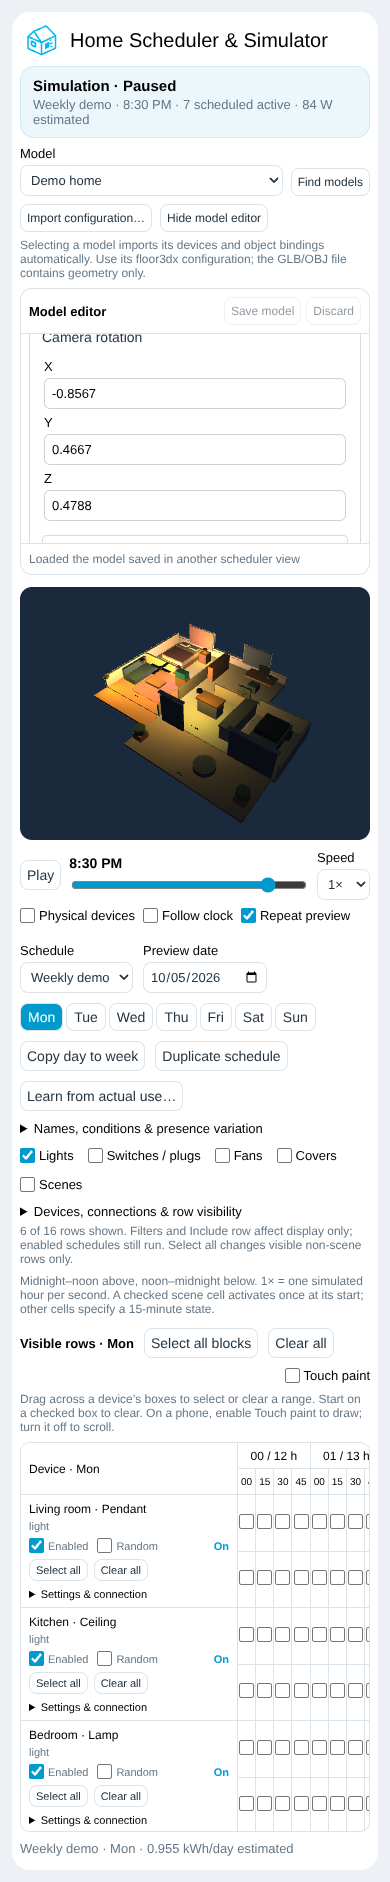
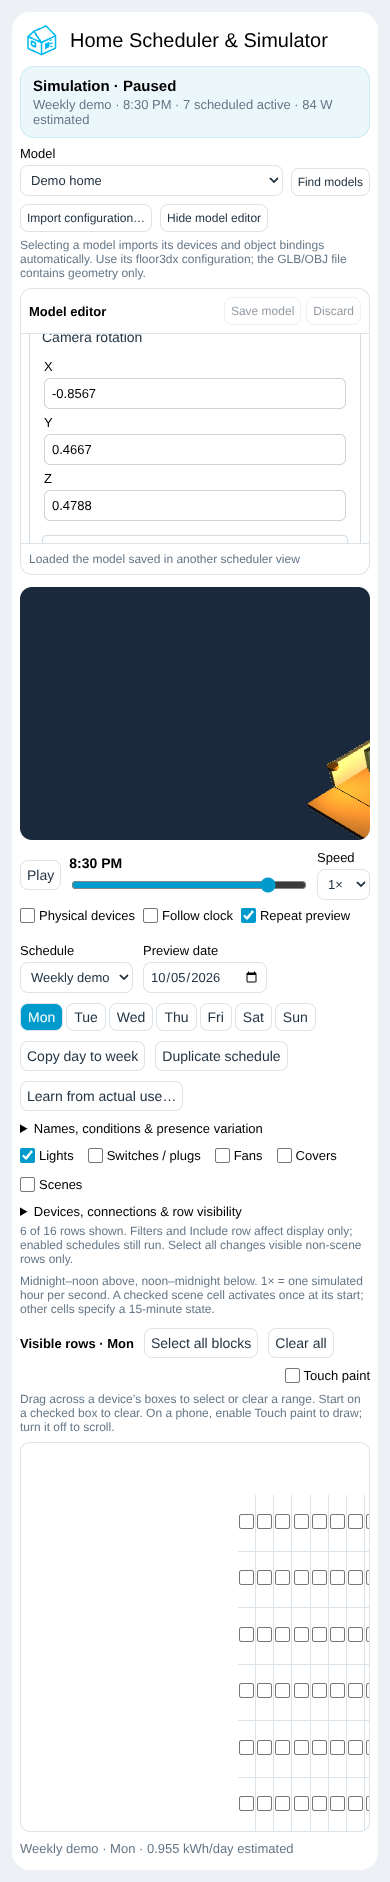
0.4.2: the preview clock drives any model's daylight; Rooms Card models found and imported
An imported house usually leaves floor3dx-card's daylight on its default
sun.sun, so inside the scheduler it followed the real sun and its lighting
stood still while the day played. The embedded card now gets the simulated
hour as daylight.time_entity unless the configuration names one, and a
fixed daylight.time is dropped.

Find models lists each model of a floor3dx Rooms Card (2.5+), on its own
or inside a wrapper card; the importer accepts its untyped card: /
models[].card blocks, with model choosing one of several.

Browser test: a wrapped two-model Rooms Card in the stub dashboard, its
untyped block imported, the injected time entity, and a darker scene at
the simulated 23:00 than at noon. Run against floor3dx-card 2.6.1.

Claude-Session: https://claude.ai/code/session_01EvyL4ym57kBLX2KkUET3MF

diff --git a/custom_components/home_scheduler/frontend/home-scheduler-card.js b/custom_components/home_scheduler/frontend/home-scheduler-card.js
@@ -1,4 +1,4 @@
-/* Home Scheduler & Simulator 0.4.1 — vanilla custom card, no build step. */
+/* Home Scheduler & Simulator 0.4.2 — vanilla custom card, no build step. */
 const HS_ESCAPE = value => String(value ?? "").replace(/[&<>"']/g, ch =>
   ({"&":"&amp;","<":"&lt;",">":"&gt;",'"':"&quot;","'":"&#39;"}[ch]));
 const HS_BIT = (mask, slot) => !!(parseInt(mask[slot >> 2] || "0",16) & (8 >> (slot % 4)));
@@ -22,7 +22,7 @@ class HomeSchedulerCard extends HTMLElement {
     this.disposed = false;
     this.renderJob = 0;
     this.sourceJob = 0;
-    this.modelChoices = [{id:"demo",name:"Demo home",kind:"demo",url:"/home_scheduler/demo-home.json?v=0.4.1"}];
+    this.modelChoices = [{id:"demo",name:"Demo home",kind:"demo",url:"/home_scheduler/demo-home.json?v=0.4.2"}];
   }
 
   setConfig(config) {
@@ -764,7 +764,7 @@ class HomeSchedulerCard extends HTMLElement {
     try {
       let source=this.plan.renderer||this.config.renderer;
       if(!source) {
-        const response=await fetch(this.config.renderer_url||"/home_scheduler/demo-home.json?v=0.4.1");
+        const response=await fetch(this.config.renderer_url||"/home_scheduler/demo-home.json?v=0.4.2");
         if(!response.ok) throw new Error("House configuration unavailable ("+response.status+"). Check the installed JSON file.");
         source=await response.json();
       }
@@ -822,7 +822,7 @@ class HomeSchedulerCard extends HTMLElement {
     });
     const query=message=>this._hass.callWS?this._hass.callWS(message):this._hass.connection?.sendMessagePromise(message);
     const reads=await Promise.allSettled([
-      bounded(Promise.all(["/home_scheduler/models.json?v=0.4.1",this.plan.model_presets_url].filter(Boolean).map(url=>
+      bounded(Promise.all(["/home_scheduler/models.json?v=0.4.2",this.plan.model_presets_url].filter(Boolean).map(url=>
         fetch(url,{cache:"no-store"}).then(async response=>response.ok?response.json():null))).then(indices=>({models:indices.flatMap(x=>Array.isArray(x?.models)?x.models:[])}))),
       bounded(Promise.resolve().then(()=>query({type:"lovelace/dashboards/list"})))
     ]);
@@ -847,6 +847,14 @@ class HomeSchedulerCard extends HTMLElement {
         if(!value||typeof value!=="object") return;
         if(["custom:floor3dx-card","custom:floor3d-card"].includes(value.type)) {
           add({id:"dashboard-"+(url_path||"overview")+"-"+(count++),name:(value.name||value.objfile||"House")+" · "+title,source:value,kind:"dashboard"});return;
+        }
+        // a floor3dx Rooms Card (2.5+) carries the 3D card as `card:` or, with several models, as
+        // `models[].card`, usually without a `type`; each model is offered on its own
+        if(value.type==="custom:floor3dx-rooms-card") {
+          const models=Array.isArray(value.models)&&value.models.length?value.models:(value.card&&typeof value.card==="object"?[{card:value.card}]:[]);
+          for(const m of models) if(m&&m.card&&typeof m.card==="object"&&["custom:floor3dx-card","custom:floor3d-card"].includes(m.card.type||"custom:floor3dx-card"))
+            add({id:"dashboard-"+(url_path||"overview")+"-"+(count++),name:(m.name||m.card.name||m.card.objfile||"House")+" · "+title,source:{type:"custom:floor3dx-card",...m.card},kind:"dashboard"});
+          return;
         }
         for(const child of Object.values(value)) visit(child);
       };
@@ -931,6 +939,12 @@ class HomeSchedulerCard extends HTMLElement {
     // every object separate. The other 2.x options (lights, color_management, exposure, look,
     // transparent, hide_objects, rotate.ramp, ...) pass through as the configuration has them.
     config.merge_static="no";
+    // The preview clock drives the model's daylight: an imported house usually follows the real
+    // sun.sun (or a fixed `time`), which would leave its lighting still while the day plays.
+    if(config.daylight&&typeof config.daylight==="object") {
+      config.daylight={...config.daylight,time_entity:config.daylight.time_entity||"input_number.hs_demo_hour"};
+      delete config.daylight.time;
+    }
     const renderer=await this.helpers.createCardElement(config);
     if(this.disposed || !this.showModel || job !== this.renderJob) return;
     renderer.preview=this.editorVisible;

diff --git a/custom_components/home_scheduler/model_import.py b/custom_components/home_scheduler/model_import.py
@@ -23,7 +23,7 @@ def validate_model(config):
     return json.loads(encoded)
 
 
-def parse_source(source):
+def parse_source(source, model=None):
     if isinstance(source, str):
         if len(source.encode()) > 524288:
             raise ValueError("Import configuration exceeds 512 KiB")
@@ -51,21 +51,48 @@ def parse_source(source):
         raise ValueError("Choose a model configuration, not the GLB/OBJ geometry file")
     metadata = source if isinstance(source, dict) and "renderer" in source else {}
     root = metadata.get("renderer", source)
-    found = []
-    def visit(value):
-        if isinstance(value, dict):
-            if value.get("type") in ("custom:floor3dx-card", "custom:floor3d-card"):
-                found.append(value)
-                return
-            for child in value.values():
-                visit(child)
-        elif isinstance(value, list):
-            for child in value:
-                visit(child)
-    visit(root)
+    found = find_models(root)
+    if model is not None:
+        found = [m for m in found if m.get("model") == model]
     if len(found) != 1:
+        if len(found) > 1 and all(m.get("model") for m in found):
+            raise ValueError("This Rooms Card holds several models (" + ", ".join(m["model"] for m in found) + "); choose one with Find models, or import that model's card: block alone")
         raise ValueError("Import one floor3dx card configuration; use the model selector for cards in a dashboard")
-    return validate_model(found[0]), metadata
+    return validate_model(found[0]["config"]), metadata
+
+
+ROOMS_CARD = "custom:floor3dx-rooms-card"
+
+
+def find_models(value, found=None):
+    """Every floor3dx card configuration in a dashboard, card or wrapper, as {config, model, name}.
+
+    The 3D card itself, and the `card:` or `models[].card` blocks of a floor3dx Rooms Card (2.5+), whose
+    blocks usually carry no `type`: one is added. A wrapper such as `custom:dashboard-entity-reference`
+    is walked through like any other card."""
+    if found is None:
+        found = []
+    if isinstance(value, dict):
+        if value.get("type") in ("custom:floor3dx-card", "custom:floor3d-card"):
+            found.append({"config": value, "model": None, "name": value.get("name")})
+            return found
+        if value.get("type") == ROOMS_CARD:
+            models = value.get("models") if isinstance(value.get("models"), list) else []
+            blocks = [(m.get("id") or m.get("name") or str(i + 1), m.get("name"), m.get("card")) for i, m in enumerate(models) if isinstance(m, dict)]
+            if not blocks and isinstance(value.get("card"), dict):
+                blocks = [(None, value.get("title"), value["card"])]
+            for model_id, name, card in blocks:
+                if isinstance(card, dict) and card.get("type", "custom:floor3dx-card") in ("custom:floor3dx-card", "custom:floor3d-card"):
+                    config = dict(card)
+                    config.setdefault("type", "custom:floor3dx-card")
+                    found.append({"config": config, "model": model_id, "name": name or config.get("name")})
+            return found
+        for child in value.values():
+            find_models(child, found)
+    elif isinstance(value, list):
+        for child in value:
+            find_models(child, found)
+    return found
 
 
 def import_bindings(config, metadata, remembered, states):

diff --git a/tests/test_model_import.py b/tests/test_model_import.py
@@ -1,6 +1,7 @@
 """Automatic imports exercise real bindings, schedules, rollback and isolation."""
 import copy
 import json
+import sys
 import types
 import unittest
 from pathlib import Path
@@ -168,6 +169,23 @@ devices:
         self.assertEqual(self.s.data["renderer"]["header"],"no")
         self.assertEqual(self.s.data["renderer"]["entities"][0]["light"]["follow_entity"],"yes")
         self.assertFalse(self.s.profile()["rows"][self.s.devices[0]["entity"]]["use"])
+
+    async def test_rooms_card_models_import_by_id_and_untyped_blocks_get_a_type(self):
+        house=model(); del house["type"]
+        garage=model(); del garage["type"]; garage["name"]="Garage"; garage["objfile"]="garage.glb"
+        wrapped={"type":"custom:dashboard-entity-reference","dashboard":"lovelace","card":{
+            "type":"custom:floor3dx-rooms-card","rooms":[],"models":[
+                {"id":"house","name":"House","width":62,"card":house},{"id":"garage","name":"Garage","width":38,"card":garage}]}}
+        found=sys.modules["home_scheduler_test_target.model_import"].find_models(wrapped)
+        self.assertEqual([(m["model"],m["name"],m["config"]["type"]) for m in found],[("house","House","custom:floor3dx-card"),("garage","Garage","custom:floor3dx-card")])
+        with self.assertRaisesRegex(Exception,"several models"):
+            await self.command(op="import_model",source=wrapped)
+        await self.command(op="import_model",source=wrapped,model="garage")
+        self.assertEqual(self.s.data["renderer"]["objfile"],"garage.glb")
+        self.assertEqual(self.s.data["renderer"]["type"],"custom:floor3dx-card")
+        single={"type":"custom:floor3dx-rooms-card","rooms":[],"card":house}
+        await self.command(op="import_model",source=single)
+        self.assertEqual(self.s.data["renderer"]["objfile"],"house.glb")
 
     async def test_invalid_imports_roll_back_model_rows_and_physical_state(self):
         variants=["house.glb","x: !secret model",{"renderer":model(),"aliases":{"switch.wall":"switch.wall_alias","switch.wall_alias":"switch.wall"}},

diff --git a/custom_components/home_scheduler/__init__.py b/custom_components/home_scheduler/__init__.py
@@ -476,7 +476,7 @@ class Scheduler:
             if type(expected) is not int or expected != revision:
                 raise HomeAssistantError("Model changed in another card. Discard the draft and edit the current model.")
             if op == "import_model":
-                config, metadata = parse_source(data.get("source",data.get("config")))
+                config, metadata = parse_source(data.get("source",data.get("config")), data.get("model"))
                 if data.get("demo"):
                     if config["path"] not in (ASSET_PATH,"/local/home-scheduler/") or config["objfile"]!="demo-home.glb":
                         raise ValueError("Use the supplied demo configuration")

diff --git a/tests/test_integration.py b/tests/test_integration.py
@@ -46,7 +46,7 @@ class IntegrationTests(unittest.IsolatedAsyncioTestCase):
             self.assertEqual(hass.flows,[])
             self.assertTrue(await target.async_setup_entry(hass,entry))
             scheduler=hass.data[target.DOMAIN]["scheduler"]
-            self.assertIn("/home_scheduler/home-scheduler-card.js?v=0.4.1",hass.modules)
+            self.assertIn("/home_scheduler/home-scheduler-card.js?v=0.4.2",hass.modules)
             self.assertEqual(hass.paths[0].url_path,"/home_scheduler")
             self.assertTrue((Path(hass.paths[0].path)/"demo-home.glb").is_file())
             self.assertIn((target.DOMAIN,"command"),hass.services.registered)

diff --git a/tools/build_demo.py b/tools/build_demo.py
@@ -15,7 +15,7 @@ ROOT = Path(__file__).resolve().parents[1]
 OUT = ROOT / "custom_components/home_scheduler/frontend"
 OUT.mkdir(parents=True, exist_ok=True)
 binary = bytearray()
-gltf = {"asset": {"version": "2.0", "generator": "FortranFour Home Scheduler fictional demo 0.4.1"},
+gltf = {"asset": {"version": "2.0", "generator": "FortranFour Home Scheduler fictional demo 0.4.2"},
         "scene": 0, "scenes": [{"nodes": []}], "nodes": [], "meshes": [], "materials": [],
         "buffers": [], "bufferViews": [], "accessors": [], "textures": [], "images": [],
         "samplers": [{"magFilter": 9729, "minFilter": 9729, "wrapS": 33071, "wrapT": 33071}],

diff --git a/custom_components/home_scheduler/const.py b/custom_components/home_scheduler/const.py
@@ -1,5 +1,5 @@
 """Shared names and bundled asset URL."""
 DOMAIN = "home_scheduler"
 NAME = "Home Scheduler & Simulator"
-VERSION = "0.4.1"
+VERSION = "0.4.2"
 ASSET_PATH = "/home_scheduler/"

diff --git a/README.md b/README.md
@@ -2,9 +2,9 @@
 
 Plan lights, switches and plugs, fans, blinds, curtains, other covers, and scene activations in a weekly quarter-hour grid. Play a day in an original fictional 3D home, select your own configured house model, or watch the simulated device indicators without 3D. Connect real devices when you want the same schedules to operate your home.
 
-Version **0.4.1** · Home Assistant custom integration · MIT license
+Version **0.4.2** · Home Assistant custom integration · MIT license
 
-New in 0.4.1: works with **floor3dx-card 2.x** (three.js r186); see [floor3dx-card 2.x](#floor3dx-card-2x). 0.4.0 added **Learn from actual use**, which observes linked lights, switches/plugs and fans, proposes a weekly routine from matching weekdays, and lets you review and play it in the model before saving a new schedule.
+New in 0.4.2: the preview clock drives the daylight of any imported model, and a floor3dx **Rooms Card** (2.5+) offers each of its models; see [floor3dx-card 2.x](#floor3dx-card-2x). 0.4.0 added **Learn from actual use**, which observes linked lights, switches/plugs and fans, proposes a weekly routine from matching weekdays, and lets you review and play it in the model before saving a new schedule.
 
 ![Fictional demo home at night](previews/demo-night.png)
 
@@ -379,6 +379,8 @@ What this means for a model configuration:
 
 - By default floor3dx-card 2.x draws the 1.x picture (its `lights` and `color_management` options default to `legacy`), so an imported house looks as before. Those options, `exposure`, the `look` themes, `transparent`, `hide_objects` and `rotate.ramp` pass through the import unchanged and take effect in the scheduler's model.
 - `merge_static` is turned off inside the scheduler whatever the configuration says: it merges the objects nothing binds, and the visual model editor's object picker needs every object separate.
+- The preview clock drives the model's `daylight`: inside the scheduler its `time_entity` is the simulated hour (an imported house usually follows the real `sun.sun`, which would leave its lighting still while the day plays), and a fixed `time` is dropped. A model without a `daylight` block keeps its plain lighting; add one (`daylight: {ambient: {day: 0.7, night: 0.16}}` is enough) for day and night.
+- A floor3dx **Rooms Card** (2.5 and later, `custom:floor3dx-rooms-card`), on its own or inside a wrapper such as `custom:dashboard-entity-reference`, is found by **Find models** with each of its `models:` entries offered separately (*House · Overview*, *Garage · Overview*); the `card:` blocks need no `type`. Pasting a whole Rooms Card into **Import configuration…** imports its single model, or asks you to choose when it has several.
 - floor3dx-card 2.0.2 and later name the model's objects as three.js r130 did, so object ids written against 1.x (including those of duplicated names such as `1_5_1_1`) keep matching the model.
 
 ## Troubleshooting

diff --git a/RELEASE_NOTES.md b/RELEASE_NOTES.md
@@ -1,7 +1,7 @@
-# Home Scheduler & Simulator 0.4.1
+# Home Scheduler & Simulator 0.4.2
 
-A compatibility release for **floor3dx-card 2.x** (three.js r186). The scheduler embeds floor3dx-card's renderer and visual editor; this release has been checked against floor3dx-card 2.3.0 as well as 1.4.0, and the integrated browser test passes unchanged against the new renderer.
+**The preview clock now drives the daylight of any model.** A house imported from a dashboard usually leaves floor3dx-card's `daylight` on its default `sun.sun`, so inside the scheduler it followed the real sun and its lighting stood still while the day played. The embedded card now gets the simulated hour as its `daylight.time_entity` (unless the configuration names one), and a fixed `daylight.time` is dropped for the preview. A model without a `daylight` block keeps its plain lighting; add one for day and night.
 
-The embedded model always runs with floor3dx-card's `merge_static` option off, so the object picker in the visual model editor reaches every object in the imported model. The other 2.x options (`lights`, `color_management`, `exposure`, the look themes) pass through the import as configured, so a model tuned in a floor3dx-card dashboard looks the same inside the scheduler. See [README.md](README.md#floor3dx-card-2x) for what floor3dx-card 2.x means for an imported model.
+**Rooms Card models.** A floor3dx **Rooms Card** (2.5 and later) keeps the 3D card as `card:` or, with several models, as `models[].card`, usually without a `type`. **Find models** now lists each of them (*House · Overview*, *Garage · Overview*), inside a wrapper card too, and **Import configuration…** accepts a Rooms Card's block (asking you to choose when it holds several models).
 
-Version 0.4.1 appears in the integration, the card and the demo URLs (cache-busting). Existing schedules, private models, dashboard cards and resources continue to work; no YAML change is needed. The 0.4.0 notes on **Learn from actual use** are in [CHANGELOG.md](CHANGELOG.md).
+Version 0.4.2 appears in the integration, the card and the demo URLs (cache-busting). Existing schedules, private models, dashboard cards and resources continue to work; no YAML change is needed. Earlier notes are in [CHANGELOG.md](CHANGELOG.md).

diff --git a/CHANGELOG.md b/CHANGELOG.md
@@ -1,5 +1,11 @@
 # Changelog
 
+## 0.4.2
+
+- The preview clock drives the daylight of every model: the embedded card's `daylight.time_entity` is the simulated hour unless the configuration names one, and a fixed `daylight.time` is dropped. An imported house that followed the real `sun.sun` (floor3dx-card's default) kept the same lighting while the day played.
+- **Find models** lists each model of a floor3dx Rooms Card (`custom:floor3dx-rooms-card`, 2.5+), on its own or inside a wrapper card, and the importer accepts its untyped `card:` / `models[].card` blocks (`model` chooses one).
+- Version 0.4.2 in the integration, card and demo URLs.
+
 ## 0.4.1
 
 - Checked with floor3dx-card 2.3.0 (three.js r186): the integrated browser test passes unchanged against the new renderer. README section on what floor3dx-card 2.x means for an imported model.

diff --git a/INSTALL.md b/INSTALL.md
@@ -1,4 +1,4 @@
-# Install Home Scheduler & Simulator 0.4.1
+# Install Home Scheduler & Simulator 0.4.2
 
 Requires Home Assistant 2026.3+. The fictional demo is unlinked from real devices. For the 3D view/editor, install [FortranFour/floor3dx-card](https://github.com/FortranFour/floor3dx-card) 1.4.0+ separately.
 
